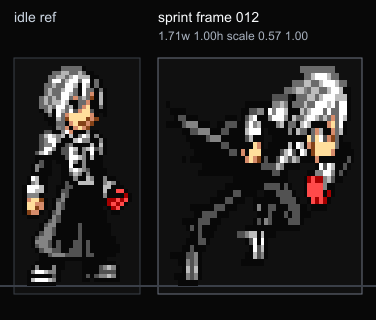
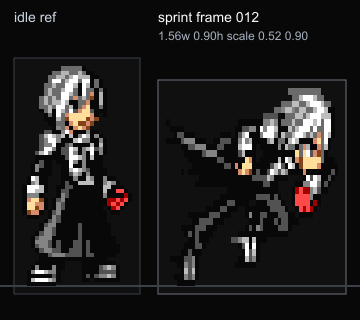
hg

Changed region(s): [[0.0611, 0.1562, 0.9778, 0.9375], [0.4278, 0.0312, 0.8556, 0.125], [0.0306, 0.0312, 0.1528, 0.0938]]

diff --git a/tmp/voxel-scale-editor/individual-frame-proofs/allen-walker/index.html b/tmp/voxel-scale-editor/individual-frame-proofs/allen-walker/index.html
@@ -1,1 +1,1 @@
-<!doctype html><meta charset="utf-8"><title>allen-walker individual frame proofs</title><style>body{margin:0;background:#151515;color:white;font-family:sans-serif}h2{margin:14px 10px 6px;font:18px sans-serif}.grid{display:flex;flex-wrap:wrap;gap:12px;padding:10px}img{background:#080808;max-width:none}</style><h2>idle</h2><div class="grid"><img src="idle/0001-idle-frame-000.png?t=1783110530710" loading="lazy"><img src="idle/0002-idle-frame-001.png?t=1783110530710" loading="lazy"><img src="idle/0003-idle-frame-002.png?t=1783110530710" loading="lazy"><img src="idle/0004-idle-frame-003.png?t=1783110530710" loading="lazy"><img src="idle/0005-idle-frame-002.png?t=1783110530710" loading="lazy"><img src="idle/0006-idle-frame-001.png?t=1783110530710" loading="lazy"></div><h2>walkForward</h2><div class="grid"><img src="walkForward/0007-walkForward-frame-004.png?t=1783110530710" loading="lazy"><img src="walkForward/0008-walkForward-frame-005.png?t=1783110530710" loading="lazy"><img src="walkForward/0009-walkForward-frame-006.png?t=1783110530710" loading="lazy"><img src="walkForward/0010-walkForward-frame-007.png?t=1783110530710" loading="lazy"><img src="walkForward/0011-walkForward-frame-008.png?t=1783110530710" loading="lazy"><img src="walkForward/0012-walkForward-frame-009.png?t=1783110530710" loading="lazy"><img src="walkForward/0013-walkForward-frame-010.png?t=1783110530710" loading="lazy"><img src="walkForward/0014-walkForward-frame-011.png?t=1783110530710" loading="lazy"></div><h2>walkBack</h2><div class="grid"><img src="walkBack/0015-walkBack-frame-014.png?t=1783110530710" loading="lazy"></div><h2>sprint</h2><div class="grid"><img src="sprint/0016-sprint-frame-012.png?t=1783110530710" loading="lazy"><img src="sprint/0017-sprint-frame-013.png?t=1783110530710" loading="lazy"></div><h2>backflip</h2><div class="grid"><img src="backflip/0018-backflip-frame-045.png?t=1783110530710" loading="lazy"><img src="backflip/0019-backflip-frame-046.png?t=1783110530710" loading="lazy"><img src="backflip/0020-backflip-frame-047.png?t=1783110530710" loading="lazy"><img src="backflip/0021-backflip-frame-048.png?t=1783110530710" loading="lazy"></div><h2>sidestepLeft</h2><div class="grid"><img src="sidestepLeft/0022-sidestepLeft-frame-145.png?t=1783110530710" loading="lazy"></div><h2>sidestepRight</h2><div class="grid"><img src="sidestepRight/0023-sidestepRight-frame-145.png?t=1783110530710" loading="lazy"></div><h2>jump</h2><div class="grid"><img src="jump/0024-jump-frame-017.png?t=1783110530710" loading="lazy"><img src="jump/0025-jump-frame-018.png?t=1783110530710" loading="lazy"><img src="jump/0026-jump-frame-019.png?t=1783110530710" loading="lazy"><img src="jump/0027-jump-frame-020.png?t=1783110530710" loading="lazy"><img src="jump/0028-jump-frame-021.png?t=1783110530710" loading="lazy"></div><h2>crouch</h2><div class="grid"><img src="crouch/0029-crouch-frame-022.png?t=1783110530710" loading="lazy"></div><h2>block</h2><div class="grid"><img src="block/0030-block-frame-015.png?t=1783110530710" loading="lazy"></div><h2>chargeKi</h2><div class="grid"><img src="chargeKi/0031-chargeKi-frame-060.png?t=1783110530710" loading="lazy"><img src="chargeKi/0032-chargeKi-frame-061.png?t=1783110530710" loading="lazy"><img src="chargeKi/0033-chargeKi-frame-062.png?t=1783110530710" loading="lazy"><img src="chargeKi/0034-chargeKi-frame-063.png?t=1783110530710" loading="lazy"></div><h2>jableft</h2><div class="grid"><img src="jableft/0035-jableft-frame-074.png?t=1783110530710" loading="lazy"><img src="jableft/0036-jableft-frame-075.png?t=1783110530710" loading="lazy"><img src="jableft/0037-jableft-frame-076.png?t=1783110530710" loading="lazy"><img src="jableft/0038-jableft-frame-077.png?t=1783110530710" loading="lazy"><img src="jableft/0039-jableft-frame-078.png?t=1783110530710" loading="lazy"></div><h2>hitLight</h2><div class="grid"><img src="hitLight/0040-hitLight-frame-026.png?t=1783110530710" loading="lazy"></div><h2>juggle</h2><div class="grid"><img src="juggle/0041-juggle-frame-028.png?t=1783110530710" loading="lazy"></div><h2>knockdown</h2><div class="grid"><img src="knockdown/0042-knockdown-frame-031.png?t=1783110530710" loading="lazy"><img src="knockdown/0043-knockdown-frame-032.png?t=1783110530710" loading="lazy"><img src="knockdown/0044-knockdown-frame-033.png?t=1783110530710" loading="lazy"><img src="knockdown/0045-knockdown-frame-034.png?t=1783110530710" loading="lazy"></div><h2>getupStand</h2><div class="grid"><img src="getupStand/0046-getupStand-frame-032.png?t=1783110530710" loading="lazy"><img src="getupStand/0047-getupStand-frame-033.png?t=1783110530710" loading="lazy"><img src="getupStand/0048-getupStand-frame-034.png?t=1783110530710" loading="lazy"><img src="getupStand/0049-getupStand-frame-053.png?t=1783110530710" loading="lazy"><img src="getupStand/0050-getupStand-frame-054.png?t=1783110530710" loading="lazy"><img src="getupStand/0051-getupStand-frame-055.png?t=1783110530710" loading="lazy"><img src="getupStand/0052-getupStand-frame-056.png?t=1783110530710" loading="lazy"><img src="getupStand/0053-getupStand-frame-057.png?t=1783110530710" loading="lazy"></div><h2>win</h2><div class="grid"><img src="win/0054-win-frame-078.png?t=1783110530710" loading="lazy"></div><h2>lose</h2><div class="grid"><img src="lose/0055-lose-frame-030.png?t=1783110530710" loading="lazy"></div><h2>cmd:1+2</h2><div class="grid"><img src="cmd_1_2/0056-cmd_1_2-frame-091.png?t=1783110530710" loading="lazy"><img src="cmd_1_2/0057-cmd_1_2-frame-092.png?t=1783110530710" loading="lazy"><img src="cmd_1_2/0058-cmd_1_2-frame-093.png?t=1783110530710" loading="lazy"><img src="cmd_1_2/0059-cmd_1_2-frame-094.png?t=1783110530710" loading="lazy"><img src="cmd_1_2/0060-cmd_1_2-frame-095.png?t=1783110530710" loading="lazy"><img src="cmd_1_2/0061-cmd_1_2-frame-096.png?t=1783110530710" loading="lazy"><img src="cmd_1_2/0062-cmd_1_2-frame-097.png?t=1783110530710" loading="lazy"><img src="cmd_1_2/0063-cmd_1_2-frame-098.png?t=1783110530710" loading="lazy"><img src="cmd_1_2/0064-cmd_1_2-frame-099.png?t=1783110530710" loading="lazy"><img src="cmd_1_2/0065-cmd_1_2-frame-100.png?t=1783110530710" loading="lazy"><img src="cmd_1_2/0066-cmd_1_2-frame-101.png?t=1783110530710" loading="lazy"><img src="cmd_1_2/0067-cmd_1_2-frame-102.png?t=1783110530710" loading="lazy"><img src="cmd_1_2/0068-cmd_1_2-frame-103.png?t=1783110530710" loading="lazy"></div><h2>cmd:d+1</h2><div class="grid"><img src="cmd_d_1/0069-cmd_d_1-frame-074.png?t=1783110530710" loading="lazy"><img src="cmd_d_1/0070-cmd_d_1-frame-075.png?t=1783110530710" loading="lazy"><img src="cmd_d_1/0071-cmd_d_1-frame-076.png?t=1783110530710" loading="lazy"><img src="cmd_d_1/0072-cmd_d_1-frame-077.png?t=1783110530710" loading="lazy"><img src="cmd_d_1/0073-cmd_d_1-frame-078.png?t=1783110530710" loading="lazy"></div><h2>cmd:f+1</h2><div class="grid"><img src="cmd_f_1/0074-cmd_f_1-frame-251.png?t=1783110530710" loading="lazy"><img src="cmd_f_1/0075-cmd_f_1-frame-252.png?t=1783110530710" loading="lazy"><img src="cmd_f_1/0076-cmd_f_1-frame-253.png?t=1783110530710" loading="lazy"><img src="cmd_f_1/0077-cmd_f_1-frame-254.png?t=1783110530710" loading="lazy"><img src="cmd_f_1/0078-cmd_f_1-frame-255.png?t=1783110530710" loading="lazy"><img src="cmd_f_1/0079-cmd_f_1-frame-256.png?t=1783110530710" loading="lazy"><img src="cmd_f_1/0080-cmd_f_1-frame-257.png?t=1783110530710" loading="lazy"><img src="cmd_f_1/0081-cmd_f_1-frame-258.png?t=1783110530710" loading="lazy"><img src="cmd_f_1/0082-cmd_f_1-frame-259.png?t=1783110530710" loading="lazy"><img src="cmd_f_1/0083-cmd_f_1-frame-260.png?t=1783110530710" loading="lazy"></div><h2>cmd:FC+1</h2><div class="grid"><img src="cmd_FC_1/0084-cmd_FC_1-frame-074.png?t=1783110530710" loading="lazy"><img src="cmd_FC_1/0085-cmd_FC_1-frame-075.png?t=1783110530710" loading="lazy"><img src="cmd_FC_1/0086-cmd_FC_1-frame-076.png?t=1783110530710" loading="lazy"><img src="cmd_FC_1/0087-cmd_FC_1-frame-077.png?t=1783110530710" loading="lazy"><img src="cmd_FC_1/0088-cmd_FC_1-frame-078.png?t=1783110530710" loading="lazy"></div><h2>cmd:O+1</h2><div class="grid"><img src="cmd_O_1/0089-cmd_O_1-frame-074.png?t=1783110530710" loading="lazy"><img src="cmd_O_1/0090-cmd_O_1-frame-075.png?t=1783110530710" loading="lazy"><img src="cmd_O_1/0091-cmd_O_1-frame-076.png?t=1783110530710" loading="lazy"><img src="cmd_O_1/0092-cmd_O_1-frame-077.png?t=1783110530710" loading="lazy"><img src="cmd_O_1/0093-cmd_O_1-frame-078.png?t=1783110530710" loading="lazy"></div><h2>cmd:qcf+1</h2><div class="grid"><img src="cmd_qcf_1/0094-cmd_qcf_1-frame-074.png?t=1783110530710" loading="lazy"><img src="cmd_qcf_1/0095-cmd_qcf_1-frame-075.png?t=1783110530710" loading="lazy"><img src="cmd_qcf_1/0096-cmd_qcf_1-frame-076.png?t=1783110530710" loading="lazy"><img src="cmd_qcf_1/0097-cmd_qcf_1-frame-077.png?t=1783110530710" loading="lazy"><img src="cmd_qcf_1/0098-cmd_qcf_1-frame-078.png?t=1783110530710" loading="lazy"></div><h2>cmd:qcf+4</h2><div class="grid"><img src="cmd_qcf_4/0099-cmd_qcf_4-frame-080.png?t=1783110530710" loading="lazy"><img src="cmd_qcf_4/0100-cmd_qcf_4-frame-081.png?t=1783110530710" loading="lazy"><img src="cmd_qcf_4/0101-cmd_qcf_4-frame-082.png?t=1783110530710" loading="lazy"><img src="cmd_qcf_4/0102-cmd_qcf_4-frame-083.png?t=1783110530710" loading="lazy"><img src="cmd_qcf_4/0103-cmd_qcf_4-frame-084.png?t=1783110530710" loading="lazy"><img src="cmd_qcf_4/0104-cmd_qcf_4-frame-085.png?t=1783110530710" loading="lazy"><img src="cmd_qcf_4/0105-cmd_qcf_4-frame-086.png?t=1783110530710" loading="lazy"><img src="cmd_qcf_4/0106-cmd_qcf_4-frame-087.png?t=1783110530710" loading="lazy"><img src="cmd_qcf_4/0107-cmd_qcf_4-frame-088.png?t=1783110530710" loading="lazy"><img src="cmd_qcf_4/0108-cmd_qcf_4-frame-089.png?t=1783110530710" loading="lazy"></div>
+<!doctype html><meta charset="utf-8"><title>allen-walker individual frame proofs</title><style>body{margin:0;background:#151515;color:white;font-family:sans-serif}h2{margin:14px 10px 6px;font:18px sans-serif}.grid{display:flex;flex-wrap:wrap;gap:12px;padding:10px}img{background:#080808;max-width:none}</style><h2>idle</h2><div class="grid"><img src="idle/0001-idle-frame-000.png?t=1783111406724" loading="lazy"><img src="idle/0002-idle-frame-001.png?t=1783111406724" loading="lazy"><img src="idle/0003-idle-frame-002.png?t=1783111406724" loading="lazy"><img src="idle/0004-idle-frame-003.png?t=1783111406724" loading="lazy"><img src="idle/0005-idle-frame-002.png?t=1783111406724" loading="lazy"><img src="idle/0006-idle-frame-001.png?t=1783111406724" loading="lazy"></div><h2>walkForward</h2><div class="grid"><img src="walkForward/0007-walkForward-frame-004.png?t=1783111406724" loading="lazy"><img src="walkForward/0008-walkForward-frame-005.png?t=1783111406724" loading="lazy"><img src="walkForward/0009-walkForward-frame-006.png?t=1783111406724" loading="lazy"><img src="walkForward/0010-walkForward-frame-007.png?t=1783111406724" loading="lazy"><img src="walkForward/0011-walkForward-frame-008.png?t=1783111406724" loading="lazy"><img src="walkForward/0012-walkForward-frame-009.png?t=1783111406724" loading="lazy"><img src="walkForward/0013-walkForward-frame-010.png?t=1783111406724" loading="lazy"><img src="walkForward/0014-walkForward-frame-011.png?t=1783111406724" loading="lazy"></div><h2>walkBack</h2><div class="grid"><img src="walkBack/0015-walkBack-frame-014.png?t=1783111406724" loading="lazy"></div><h2>sprint</h2><div class="grid"><img src="sprint/0016-sprint-frame-012.png?t=1783111406724" loading="lazy"><img src="sprint/0017-sprint-frame-013.png?t=1783111406724" loading="lazy"></div><h2>backflip</h2><div class="grid"><img src="backflip/0018-backflip-frame-045.png?t=1783111406724" loading="lazy"><img src="backflip/0019-backflip-frame-046.png?t=1783111406724" loading="lazy"><img src="backflip/0020-backflip-frame-047.png?t=1783111406724" loading="lazy"><img src="backflip/0021-backflip-frame-048.png?t=1783111406724" loading="lazy"></div><h2>sidestepLeft</h2><div class="grid"><img src="sidestepLeft/0022-sidestepLeft-frame-145.png?t=1783111406724" loading="lazy"></div><h2>sidestepRight</h2><div class="grid"><img src="sidestepRight/0023-sidestepRight-frame-145.png?t=1783111406724" loading="lazy"></div><h2>jump</h2><div class="grid"><img src="jump/0024-jump-frame-017.png?t=1783111406724" loading="lazy"><img src="jump/0025-jump-frame-018.png?t=1783111406724" loading="lazy"><img src="jump/0026-jump-frame-019.png?t=1783111406724" loading="lazy"><img src="jump/0027-jump-frame-020.png?t=1783111406724" loading="lazy"><img src="jump/0028-jump-frame-021.png?t=1783111406724" loading="lazy"></div><h2>crouch</h2><div class="grid"><img src="crouch/0029-crouch-frame-022.png?t=1783111406724" loading="lazy"></div><h2>block</h2><div class="grid"><img src="block/0030-block-frame-015.png?t=1783111406724" loading="lazy"></div><h2>chargeKi</h2><div class="grid"><img src="chargeKi/0031-chargeKi-frame-060.png?t=1783111406724" loading="lazy"><img src="chargeKi/0032-chargeKi-frame-061.png?t=1783111406724" loading="lazy"><img src="chargeKi/0033-chargeKi-frame-062.png?t=1783111406724" loading="lazy"><img src="chargeKi/0034-chargeKi-frame-063.png?t=1783111406724" loading="lazy"></div><h2>jableft</h2><div class="grid"><img src="jableft/0035-jableft-frame-074.png?t=1783111406724" loading="lazy"><img src="jableft/0036-jableft-frame-075.png?t=1783111406724" loading="lazy"><img src="jableft/0037-jableft-frame-076.png?t=1783111406724" loading="lazy"><img src="jableft/0038-jableft-frame-077.png?t=1783111406724" loading="lazy"><img src="jableft/0039-jableft-frame-078.png?t=1783111406724" loading="lazy"></div><h2>hitLight</h2><div class="grid"><img src="hitLight/0040-hitLight-frame-026.png?t=1783111406724" loading="lazy"></div><h2>juggle</h2><div class="grid"><img src="juggle/0041-juggle-frame-028.png?t=1783111406724" loading="lazy"></div><h2>knockdown</h2><div class="grid"><img src="knockdown/0042-knockdown-frame-031.png?t=1783111406724" loading="lazy"><img src="knockdown/0043-knockdown-frame-032.png?t=1783111406724" loading="lazy"><img src="knockdown/0044-knockdown-frame-033.png?t=1783111406724" loading="lazy"><img src="knockdown/0045-knockdown-frame-034.png?t=1783111406724" loading="lazy"></div><h2>getupStand</h2><div class="grid"><img src="getupStand/0046-getupStand-frame-032.png?t=1783111406724" loading="lazy"><img src="getupStand/0047-getupStand-frame-033.png?t=1783111406724" loading="lazy"><img src="getupStand/0048-getupStand-frame-034.png?t=1783111406724" loading="lazy"><img src="getupStand/0049-getupStand-frame-053.png?t=1783111406724" loading="lazy"><img src="getupStand/0050-getupStand-frame-054.png?t=1783111406724" loading="lazy"><img src="getupStand/0051-getupStand-frame-055.png?t=1783111406724" loading="lazy"><img src="getupStand/0052-getupStand-frame-056.png?t=1783111406724" loading="lazy"><img src="getupStand/0053-getupStand-frame-057.png?t=1783111406724" loading="lazy"></div><h2>win</h2><div class="grid"><img src="win/0054-win-frame-078.png?t=1783111406724" loading="lazy"></div><h2>lose</h2><div class="grid"><img src="lose/0055-lose-frame-030.png?t=1783111406724" loading="lazy"></div><h2>cmd:1+2</h2><div class="grid"><img src="cmd_1_2/0056-cmd_1_2-frame-091.png?t=1783111406724" loading="lazy"><img src="cmd_1_2/0057-cmd_1_2-frame-092.png?t=1783111406724" loading="lazy"><img src="cmd_1_2/0058-cmd_1_2-frame-093.png?t=1783111406724" loading="lazy"><img src="cmd_1_2/0059-cmd_1_2-frame-094.png?t=1783111406724" loading="lazy"><img src="cmd_1_2/0060-cmd_1_2-frame-095.png?t=1783111406724" loading="lazy"><img src="cmd_1_2/0061-cmd_1_2-frame-096.png?t=1783111406724" loading="lazy"><img src="cmd_1_2/0062-cmd_1_2-frame-097.png?t=1783111406724" loading="lazy"><img src="cmd_1_2/0063-cmd_1_2-frame-098.png?t=1783111406724" loading="lazy"><img src="cmd_1_2/0064-cmd_1_2-frame-099.png?t=1783111406724" loading="lazy"><img src="cmd_1_2/0065-cmd_1_2-frame-100.png?t=1783111406724" loading="lazy"><img src="cmd_1_2/0066-cmd_1_2-frame-101.png?t=1783111406724" loading="lazy"><img src="cmd_1_2/0067-cmd_1_2-frame-102.png?t=1783111406724" loading="lazy"><img src="cmd_1_2/0068-cmd_1_2-frame-103.png?t=1783111406724" loading="lazy"></div><h2>cmd:d+1</h2><div class="grid"><img src="cmd_d_1/0069-cmd_d_1-frame-074.png?t=1783111406724" loading="lazy"><img src="cmd_d_1/0070-cmd_d_1-frame-075.png?t=1783111406724" loading="lazy"><img src="cmd_d_1/0071-cmd_d_1-frame-076.png?t=1783111406724" loading="lazy"><img src="cmd_d_1/0072-cmd_d_1-frame-077.png?t=1783111406724" loading="lazy"><img src="cmd_d_1/0073-cmd_d_1-frame-078.png?t=1783111406724" loading="lazy"></div><h2>cmd:f+1</h2><div class="grid"><img src="cmd_f_1/0074-cmd_f_1-frame-251.png?t=1783111406724" loading="lazy"><img src="cmd_f_1/0075-cmd_f_1-frame-252.png?t=1783111406724" loading="lazy"><img src="cmd_f_1/0076-cmd_f_1-frame-253.png?t=1783111406724" loading="lazy"><img src="cmd_f_1/0077-cmd_f_1-frame-254.png?t=1783111406724" loading="lazy"><img src="cmd_f_1/0078-cmd_f_1-frame-255.png?t=1783111406724" loading="lazy"><img src="cmd_f_1/0079-cmd_f_1-frame-256.png?t=1783111406724" loading="lazy"><img src="cmd_f_1/0080-cmd_f_1-frame-257.png?t=1783111406724" loading="lazy"><img src="cmd_f_1/0081-cmd_f_1-frame-258.png?t=1783111406724" loading="lazy"><img src="cmd_f_1/0082-cmd_f_1-frame-259.png?t=1783111406724" loading="lazy"><img src="cmd_f_1/0083-cmd_f_1-frame-260.png?t=1783111406724" loading="lazy"></div><h2>cmd:FC+1</h2><div class="grid"><img src="cmd_FC_1/0084-cmd_FC_1-frame-074.png?t=1783111406724" loading="lazy"><img src="cmd_FC_1/0085-cmd_FC_1-frame-075.png?t=1783111406724" loading="lazy"><img src="cmd_FC_1/0086-cmd_FC_1-frame-076.png?t=1783111406724" loading="lazy"><img src="cmd_FC_1/0087-cmd_FC_1-frame-077.png?t=1783111406724" loading="lazy"><img src="cmd_FC_1/0088-cmd_FC_1-frame-078.png?t=1783111406724" loading="lazy"></div><h2>cmd:O+1</h2><div class="grid"><img src="cmd_O_1/0089-cmd_O_1-frame-074.png?t=1783111406724" loading="lazy"><img src="cmd_O_1/0090-cmd_O_1-frame-075.png?t=1783111406724" loading="lazy"><img src="cmd_O_1/0091-cmd_O_1-frame-076.png?t=1783111406724" loading="lazy"><img src="cmd_O_1/0092-cmd_O_1-frame-077.png?t=1783111406724" loading="lazy"><img src="cmd_O_1/0093-cmd_O_1-frame-078.png?t=1783111406724" loading="lazy"></div><h2>cmd:qcf+1</h2><div class="grid"><img src="cmd_qcf_1/0094-cmd_qcf_1-frame-074.png?t=1783111406724" loading="lazy"><img src="cmd_qcf_1/0095-cmd_qcf_1-frame-075.png?t=1783111406724" loading="lazy"><img src="cmd_qcf_1/0096-cmd_qcf_1-frame-076.png?t=1783111406724" loading="lazy"><img src="cmd_qcf_1/0097-cmd_qcf_1-frame-077.png?t=1783111406724" loading="lazy"><img src="cmd_qcf_1/0098-cmd_qcf_1-frame-078.png?t=1783111406724" loading="lazy"></div><h2>cmd:qcf+4</h2><div class="grid"><img src="cmd_qcf_4/0099-cmd_qcf_4-frame-080.png?t=1783111406724" loading="lazy"><img src="cmd_qcf_4/0100-cmd_qcf_4-frame-081.png?t=1783111406724" loading="lazy"><img src="cmd_qcf_4/0101-cmd_qcf_4-frame-082.png?t=1783111406724" loading="lazy"><img src="cmd_qcf_4/0102-cmd_qcf_4-frame-083.png?t=1783111406724" loading="lazy"><img src="cmd_qcf_4/0103-cmd_qcf_4-frame-084.png?t=1783111406724" loading="lazy"><img src="cmd_qcf_4/0104-cmd_qcf_4-frame-085.png?t=1783111406724" loading="lazy"><img src="cmd_qcf_4/0105-cmd_qcf_4-frame-086.png?t=1783111406724" loading="lazy"><img src="cmd_qcf_4/0106-cmd_qcf_4-frame-087.png?t=1783111406724" loading="lazy"><img src="cmd_qcf_4/0107-cmd_qcf_4-frame-088.png?t=1783111406724" loading="lazy"><img src="cmd_qcf_4/0108-cmd_qcf_4-frame-089.png?t=1783111406724" loading="lazy"></div>

diff --git a/tmp/voxel-scale-editor/boxed-frame-review-report.md b/tmp/voxel-scale-editor/boxed-frame-review-report.md
@@ -1,41 +1,34 @@
 # KORE Boxed Frame Review Report
 
-Fresh pass started with the corrected per-frame black-box workflow.
+Fresh Allen restart with strict individual-PNG checklist.
 
-Primary evidence: `tmp/voxel-scale-editor/character-review-sheets/<character>-black-boxes.png`.
-Motion-flow evidence: `tmp/voxel-scale-editor/character-review-sheets/<character>-black-primary.png`.
-Secondary evidence: `tmp/voxel-scale-editor/character-review-sheets/<character>-ghost-secondary.png`.
+Interpreter: severe animation-professor mode. Borderline frames are suspect; passes require a concrete visual reason.
 
-Required visual checklist for every individual black-boxed frame:
+Primary evidence: `tmp/voxel-scale-editor/individual-frame-proofs/<character>/<move>/*.png`.
+Secondary evidence: ghost proof only after individual visual inspection.
 
-- Actual head height/size compared to idle first; standing/upright head top must align with idle top guide.
-- Body volume compared to idle.
-- Laying/prone/curled body mass is not oversized.
-- Laying/prone frames break aspect ratio when needed: lower height, longer width, horizontal body length corresponding to idle standing height.
-- Feet/body support makes sense for the pose.
-- Weapons/effects do not drive body scale decisions.
-- Large effect boxes do not mean the body is too large; actual head/torso/legs must match idle.
-- Neighboring frames do not pop larger or smaller.
+Each individual PNG must mark every rule:
+
+- `head-size`: height, width, face/head mass, and perceived volume against idle. Line alignment alone is not enough.
+- `head-position`
+- `body-volume`
+- `laying-aspect`
+- `ball-compact` including side-on folded or crouched-in-air bodies, classified by silhouette not move name
+- `feet-ground`
+- `effect-ignore`
+- `neighbor-continuity`
+
+Values: `pass`, `fail`, or `n/a: reason`.
 
 ## Character Log
 
 | # | Character | Status |
 |---:|---|---|
-| 1 | Allen Walker (`allen-walker`) | In progress. |
+| 1 | Allen Walker (`allen-walker`) | Restarted from top after head-volume and ball-body skill updates. |
 
-## Frame Decisions
+## Strict Frame Checklist
 
-| Character | Move | Frame | Decision | Verified |
-|---|---|---:|---|---|
-| Allen Walker | `cmd:f+1` | 253 | Restored larger body scale `1.31w/1.31h`; green effect box is ignored, actual body/head needed to match idle. | Individual black PNG checked. |
-| Allen Walker | `cmd:f+1` | 254 | Reduced oversized body hidden by green effect to `1.06w/1.06h`. | Individual black PNG checked. |
-| Allen Walker | `cmd:qcf+4` | 82 | Same source/body as `cmd:f+1` 253; restored larger body scale `1.31w/1.31h`. | Individual black PNG checked. |
-| Allen Walker | `cmd:qcf+4` | 83 | Same source/body issue as `cmd:f+1` 254; reduced to `1.06w/1.06h`. | Individual black PNG checked. |
-| Allen Walker | `getupStand` | 53 | Broke aspect ratio for laying recovery: `1.25w/0.48h`, low and long against idle. | Individual black PNG checked. |
-| Allen Walker | `getupStand` | 54 | Broke aspect ratio for laying recovery: `1.25w/0.48h`, low and long against idle. | Individual black PNG checked. |
-| Allen Walker | `getupStand` | 55 | Reduced kneeling recovery to `0.90w/0.90h` so it transitions below idle before standing. | Individual black PNG checked. |
-| Allen Walker | `knockdown` | 33 | Reduced compact/folded body to `0.90w/0.90h`. | Individual black PNG checked. |
-| Allen Walker | `knockdown` | 34 | Reduced compact/folded body to `0.85w/0.85h`. | Individual black PNG checked. |
-| Allen Walker | `getupStand` | 33 | Same source as knockdown 33; reduced to `0.90w/0.90h`. | Individual black PNG checked. |
-| Allen Walker | `getupStand` | 34 | Same source as knockdown 34; reduced to `0.85w/0.85h`. | Individual black PNG checked. |
-| Allen Walker | `lose` | 30 | Broke aspect ratio for laying pose: `1.35w/0.42h`, low and long against idle. | Individual black PNG checked. |
+| Character | Move | Frame | head-size | head-position | body-volume | laying-aspect | ball-compact | feet-ground | effect-ignore | neighbor-continuity | Decision |
+|---|---|---:|---|---|---|---|---|---|---|---|---|
+| Allen Walker | `sprint` | 012 | fixed: head volume now closer to idle | n/a: forward-running lean | pass | n/a: not laying | n/a: not ball | pass | n/a: no effect | pass | Reduced to `0.52w/0.90h`; verified individual PNG. |
+| Allen Walker | `sprint` | 013 | fixed: head volume now closer to idle | n/a: forward-running lean | pass | n/a: not laying | n/a: not ball | pass | n/a: no effect | pass | Reduced to `0.53w/0.90h`; verified individual PNG. |
